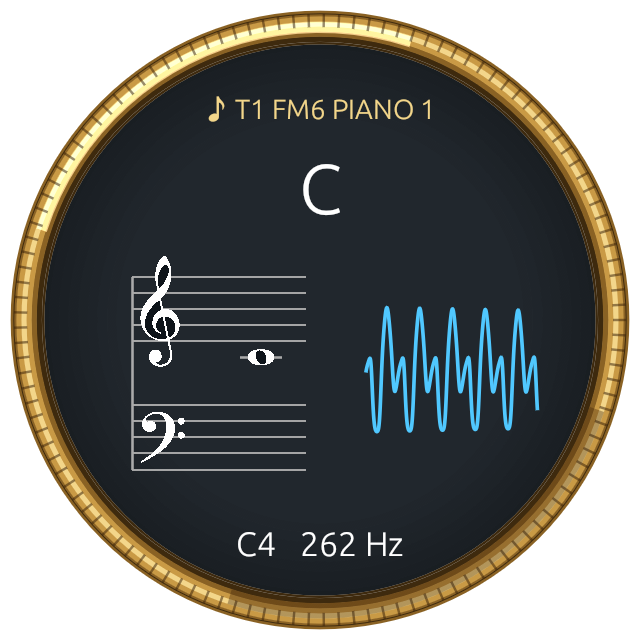
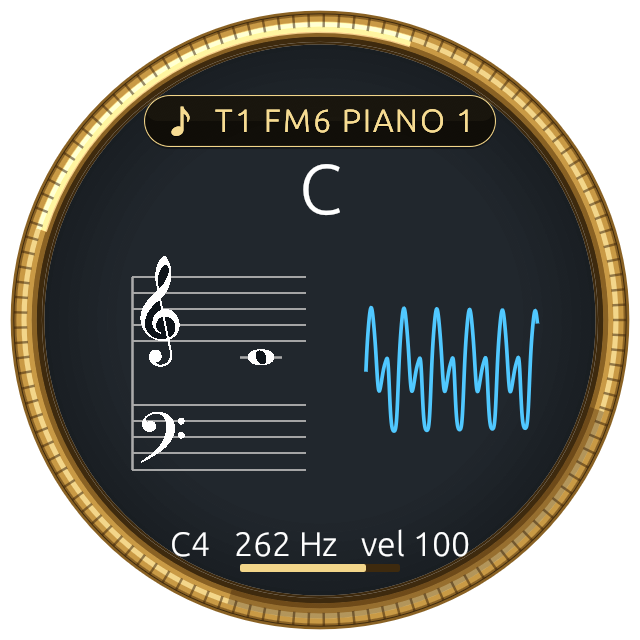
Header back in its brass-edged band

diff --git a/desktop/src/glass.rs b/desktop/src/glass.rs
@@ -16,6 +16,10 @@ const BRASS_DARK: Color32 = Color32::from_rgb(0x8a, 0x62, 0x24);
 const BRASS_SHADOW: Color32 = Color32::from_rgb(0x3e, 0x2a, 0x0e);
 const GLASS: Color32 = Color32::from_rgb(0x0e, 0x14, 0x1a);
 const TEXT: Color32 = Color32::WHITE;
+/// The sound's name on top: warm gold letters on smoked glass with a faint shine, in a brass-edged band.
+const SOUND: Color32 = Color32::from_rgb(0xf7, 0xdc, 0x92);
+const SOUND_GLASS: Color32 = Color32::from_rgba_premultiplied(14, 11, 5, 225);
+const SOUND_SHINE: Color32 = Color32::from_rgba_premultiplied(10, 9, 6, 18);
 const WAVE: Color32 = Color32::from_rgb(80, 200, 255);
 const WAVE_QUIET: Color32 = Color32::from_rgb(110, 120, 130);
 
@@ -171,14 +175,38 @@ impl Glass {
         let wave = wave.is_some();
         lens(p, c, d / 2.0, d);
         if let Some(sound) = sound {
-            // What's sounding, small in brass near the top of the glass, as MIDI Bridge's spyglass says "♪ FM-1".
-            let text = format!("\u{266a} {sound}");
-            let size = d * 0.045;
-            let mut g = p.layout_no_wrap(text.clone(), FontId::proportional(size), BRASS_LIGHT);
-            if g.size().x > d * 0.42 {
-                g = p.layout_no_wrap(text, FontId::proportional(size * d * 0.42 / g.size().x), BRASS_LIGHT);
+            // The sound's name across the top of the glass: warm gold letters, a little spaced, on a rounded band of
+            // dark smoked glass with a thin brass edge (the rim's), a soft highlight on its upper half.
+            let room = d * 0.5;
+            let job = |size: f32, color: Color32| {
+                let mut j = egui::text::LayoutJob::default();
+                j.append(&format!("\u{266a}  {sound}"), 0.0, egui::TextFormat {
+                    font_id: FontId::proportional(size),
+                    color,
+                    extra_letter_spacing: size * 0.06,
+                    ..Default::default()
+                });
+                j
+            };
+            let mut size = (d * 0.06).max(12.0);
+            let w = p.fonts(|f| f.layout_job(job(size, SOUND))).size().x;
+            if w > room {
+                size *= room / w;
             }
-            p.galley(c + vec2(0.0, -d * 0.345) - g.size() / 2.0, g, BRASS_LIGHT);
+            let g = p.fonts(|f| f.layout_job(job(size, SOUND)));
+            let at = c + vec2(0.0, -d * 0.325);
+            let band = Rect::from_center_size(at, vec2(g.size().x + size * 1.4, g.size().y + size * 0.5));
+            let round = CornerRadius::same((band.height() / 2.0).min(255.0) as u8);
+            p.rect_filled(band.translate(vec2(0.0, 2.0)), round, Color32::from_black_alpha(90));   // its shadow
+            p.rect_filled(band, round, SOUND_GLASS);
+            let upper = Rect::from_min_max(band.min + vec2(2.0, 2.0), Pos2::new(band.max.x - 2.0, band.center().y));
+            p.rect_filled(upper, CornerRadius::same(((upper.height()).min(255.0)) as u8), SOUND_SHINE);
+            p.rect_stroke(band, round, Stroke::new(1.25_f32, BRASS_LIGHT), egui::StrokeKind::Inside);
+            p.rect_stroke(band.shrink(1.25), round, Stroke::new(1.0_f32, Color32::from_black_alpha(140)), egui::StrokeKind::Inside);
+            let top_left = at - g.size() / 2.0;
+            p.galley(top_left + vec2(0.0, 1.0), p.fonts(|f| f.layout_job(job(size, Color32::from_black_alpha(200)))), Color32::BLACK);
+            p.galley(top_left + vec2(0.45, 0.0), g.clone(), SOUND);    // (twice, a hair apart: a touch bolder)
+            p.galley(top_left, g, SOUND);
         }
         let fit = |text: String, size: f32, room: f32| {
             let g = p.layout_no_wrap(text.clone(), FontId::proportional(size), TEXT);
